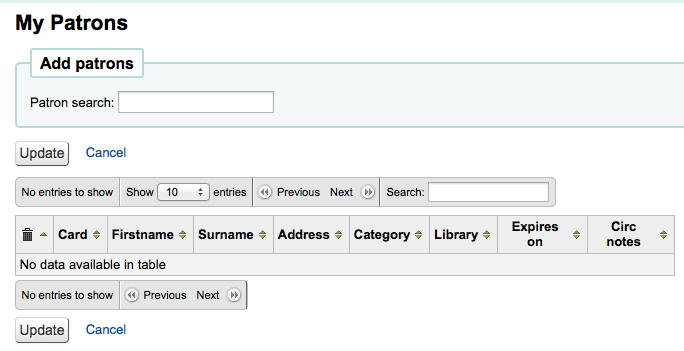
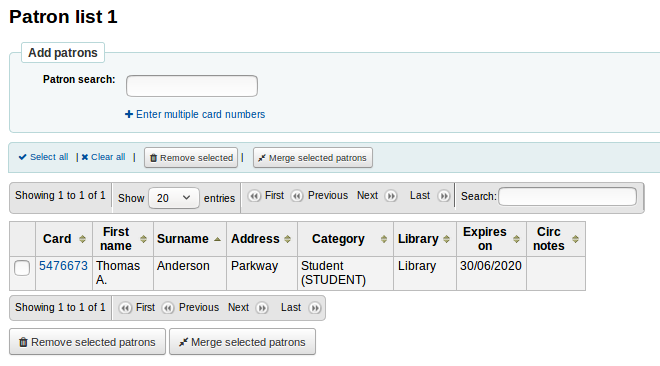
Updates Tools > Patron lists with improvements introduced in bug 19834 (taiga 269)

Changed region(s): [[0.0, 0.0, 1.0, 0.9972], [0.9697, 0.6553, 1.0, 0.6838]]

diff --git a/source/tools.rst b/source/tools.rst
@@ -19,7 +19,7 @@ Patrons and Circulation
 Patron lists
 ~~~~~~~~~~~~~~~~~~~~~~~~~~~~~~~
 
--  *Get there:* More > Tools > Patrons and Circulation > Patron lists
+-  *Get there:* More > Tools > Patrons and circulation > Patron lists
 
 Patron lists are a way to store a group of patrons for easy modification
 via the :ref:`batch patron modification tool <batch-patron-modification-label>` or
@@ -46,6 +46,9 @@ menu.
 
 Enter the patron's name or cardnumber in the search box and click on the
 right result to add the patron.
+
+Alternatively, you can click on the 'Enter multiple card numbers' link and 
+scan (or type in) barcodes in the box.
 
 |image249|
 
